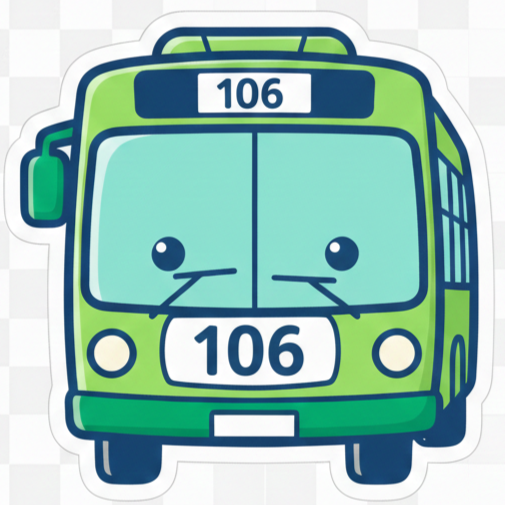
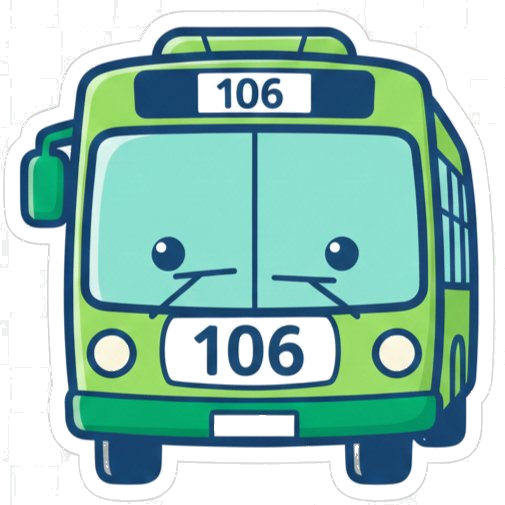
Improved interface

diff --git a/app.py b/app.py
@@ -15,10 +15,13 @@ TEXT_STYLE = {
 }
 
 home_icon = dict(iconUrl="/assets/home.png", iconSize=[60, 60], iconAnchor=[30, 60])
+malden_icon = dict(iconUrl="/assets/malden.png", iconSize=[60, 60], iconAnchor=[30, 60])
+wellington_icon = dict(iconUrl="/assets/wellington.png", iconSize=[60, 60], iconAnchor=[30, 60])
 
-# ... imports remain the same ...
-
-app = dash.Dash(__name__)
+app = dash.Dash(__name__, title="GoTime", meta_tags=[
+    {"name": "mobile-web-app-capable", "content": "yes"},
+    {"name": "application-name", "content": "GoTime"},
+])
 
 app.layout = html.Div([
     dcc.Interval(id="interval-component", interval=15 * 1000, n_intervals=0),
@@ -27,7 +30,7 @@ app.layout = html.Div([
     html.Div([
         html.Div(id="primary-option-container", children=[
             html.Div("LEAVE IN", style={**TEXT_STYLE, "fontSize": "25px", "color": "#666"}),
-            html.Div(id="primary-timer", style={**TEXT_STYLE, "fontSize": "130px", "lineHeight": "1.0"}),
+            html.Div(id="primary-timer", style={**TEXT_STYLE, "fontSize": "100px", "lineHeight": "1.0"}),
             html.Div(id="primary-desc", style={**TEXT_STYLE, "fontSize": "30px", "marginTop": "10px"}),
         ], style={"padding": "30px", "borderBottom": "4px solid #eee"}),
 
@@ -39,12 +42,16 @@ app.layout = html.Div([
         dl.Map([
             dl.TileLayer(url="https://{s}.basemaps.cartocdn.com/light_all/{z}/{x}/{y}{r}.png"),
             dl.LayerGroup(id="route-path-layer"),
-            dl.Marker(icon=home_icon),
+            dl.Marker(position=[42.415158, -71.067861], icon=home_icon),
+            dl.Marker(position=[42.426715, -71.074349], icon=malden_icon, zIndexOffset=-1000),
+            dl.Marker(position=[42.401907, -71.077096], icon=wellington_icon, zIndexOffset=-1000),
+
             dl.LayerGroup(id="bus-layer"),
         ],
             id="map",
             style={"width": "100%", "height": "100%"},  # Let CSS control the size
-            zoom=15, zoomControl=False, attributionControl=False,
+            center=[42.415158, -71.067861],
+            zoom=14, zoomControl=True, attributionControl=False,
         )
     ], className="map-panel")  # <--- CHANGED: Uses CSS class now
 
@@ -94,6 +101,15 @@ def refresh_ui(n):
     # Track which routes we've already drawn to avoid overlap mess
     drawn_routes = set()
 
+    # Gets top route icon
+    top_route_id = top.get("route_id")
+    if top_route_id:
+        top_icon_url = get_bus_icon(top_route_id)["iconUrl"]
+    elif top.get("route_type") == "Walking":
+        top_icon_url = "/assets/walk.png"
+    else:
+        top_icon_url = None  # truly unknown/empty
+
     # Process top 4 results
     # We use .get() to avoid the KeyError if a field is missing
     for i, opt in enumerate(results[:4]):
@@ -102,6 +118,7 @@ def refresh_ui(n):
             continue  # Skip if no route ID exists (like walking)
 
         # A. Sidebar Card
+        route_color = ROUTES_DETAILS.get(r_id, {}).get("color", "#ccc") if r_id else "#ccc"
         card = html.Div(
             [
                 html.Div(
@@ -123,7 +140,7 @@ def refresh_ui(n):
             ],
             style={
                 "padding": "20px",
-                "borderLeft": f'15px solid {opt.get("color", "#ccc")}',
+                "borderLeft": f'15px solid {route_color}',
                 "backgroundColor": "#f9f9f9" if i == 0 else "#fff",
                 "borderBottom": "1px solid #ddd",
             },
@@ -152,13 +169,18 @@ def refresh_ui(n):
                     position=[opt["lat"], opt["lon"]],
                     icon=get_bus_icon(r_id),
                     children=[dl.Tooltip(f"Route {r_id}")],
+                    zIndexOffset=1000,
                 )
             )
 
     return (
         f"{leave_min} MIN",
-        {**TEXT_STYLE, "fontSize": "130px", "color": timer_color},
-        top.get("desc", "Unknown").upper(),
+        {**TEXT_STYLE, "fontSize": "100px", "color": timer_color},
+        html.Div([
+            html.Img(src=top_icon_url, style={"height": "70px", "marginRight": "15px",
+                                              "verticalAlign": "middle"}) if top_icon_url else None,
+            html.Span(top.get("desc", "Unknown").upper()),
+        ], style={"display": "flex", "alignItems": "center"}),
         secondary_cards,
         bus_markers,
         path_layer,
@@ -166,4 +188,6 @@ def refresh_ui(n):
 
 
 if __name__ == "__main__":
-    app.run(debug=True, host='0.0.0.0', port=8050)
+    local = "127.0.0.1"
+    network = "0.0.0.0"
+    app.run(debug=False, host=network, port=8050)

diff --git a/src/commute_optimizer.py b/src/commute_optimizer.py
@@ -56,7 +56,8 @@ class CommuteOptimizer:
             ("Malden Center", self.WALK_TO_MALDEN_STATION, ol_malden),
             ("Wellington", self.WALK_TO_WELLINGTON_STATION, ol_wellington),
         ]:
-            if not trains: continue
+            if not trains:
+                continue
             for train in trains:
                 wait_time = self._get_minutes_until(train["time"])
                 if wait_time > (walk_time + self.SAFETY_BUFFER):
@@ -88,9 +89,16 @@ class CommuteOptimizer:
                 for bus in bus_preds:
                     curr_seq = bus.get("current_seq")
                     home_seq = self.HOME_SEQUENCES[route_id][target_key]
+                    vehicle_direction = bus.get("direction_id")
+                    expected_direction = data["dir"]
 
                     if curr_seq and home_seq:
-                        stops_away = home_seq - curr_seq
+                        if vehicle_direction == expected_direction:
+                            stops_away = home_seq - curr_seq
+                        else:
+                            current_map = self.master_stop_maps[route_id][vehicle_direction]
+                            stops_to_terminal = len(current_map) - curr_seq
+                            stops_away = stops_to_terminal + home_seq
                         if stops_away > 0:
                             status_str = f"{stops_away} stops away ({bus['location']})"
                         else:
@@ -112,8 +120,9 @@ class CommuteOptimizer:
                         if trains:
                             for train in trains:
                                 train_wait = self._get_minutes_until(train["time"])
-                                print(train_wait)
-                                if train_wait > (arrival_at_station + self.SAFETY_BUFFER):
+                                if train_wait > (
+                                    arrival_at_station + self.SAFETY_BUFFER
+                                ):
                                     best_train_wait = train_wait
                                     break
 
@@ -121,19 +130,23 @@ class CommuteOptimizer:
                             best_train_wait = arrival_at_station + 1
                             status_str += " (Est. Connection)"
 
-                        options.append({
-                            "desc": f"Bus {route_id} -> {target_name}",
-                            "leave_in": bus_wait - self.WALK_TO_BUS_STOPS - self.SAFETY_BUFFER,
-                            "arrival_on_train": best_train_wait,
-                            "status": status_str,
-                            "route_type": "Bus",
-                            "lat": bus.get('lat'),
-                            "lon": bus.get('lon'),
-                            "vehicle_id": bus.get('id'),
-                            "route_id": route_id,
-                            "bus_data": bus,
-                            "direction_id": bus.get('direction_id')
-                        })
+                        options.append(
+                            {
+                                "desc": f"Bus {route_id} -> {target_name}",
+                                "leave_in": bus_wait
+                                - self.WALK_TO_BUS_STOPS
+                                - self.SAFETY_BUFFER,
+                                "arrival_on_train": best_train_wait,
+                                "status": status_str,
+                                "route_type": "Bus",
+                                "lat": bus.get("lat"),
+                                "lon": bus.get("lon"),
+                                "vehicle_id": bus.get("id"),
+                                "route_id": route_id,
+                                "bus_data": bus,
+                                "direction_id": bus.get("direction_id"),
+                            }
+                        )
                         break
 
         options.sort(key=lambda x: x["arrival_on_train"])
@@ -172,12 +185,9 @@ def run_loop() -> None:
                     print(f"   STATUS:   {opt['status']}")
                     print(f"   On Orange Line in: {round(opt['arrival_on_train'])} min")
 
-            print(f"\n{'=' * 55}")
-            print(" Refreshing in 60 seconds... (Ctrl+C to stop)")
             time.sleep(60)
 
         except KeyboardInterrupt:
-            print("\nTracker stopped. safe travels!")
             break
         except Exception as e:
             print(f"\nAn error occurred: {e}")

diff --git a/src/mbta_fetcher.py b/src/mbta_fetcher.py
@@ -50,7 +50,7 @@ class MBTAFetcher:
         endpoint = f"{self.BASE_URL}/shapes"
         params = {
             "filter[route]": route_id,
-            "sort": "-length"  # Optional: tries to get the longest one first
+            "sort": "-length",  # Optional: tries to get the longest one first
         }
 
         try:
@@ -119,7 +119,9 @@ class MBTAFetcher:
             return []
 
     @staticmethod
-    def _parse_predictions(data: List[Dict], included_map: Dict, stop_map: Dict = None) -> List[Dict]:
+    def _parse_predictions(
+        data: List[Dict], included_map: Dict, stop_map: Dict = None
+    ) -> List[Dict]:
         clean_results = []
         for item in data:
             attrs = item.get("attributes", {})
@@ -131,12 +133,14 @@ class MBTAFetcher:
             direction_id = None
 
             if vehicle_rel:
-                veh = included_map.get(("vehicle", vehicle_rel['id']))
+                veh = included_map.get(("vehicle", vehicle_rel["id"]))
                 if veh:
                     v_attrs = veh.get("attributes", {})
                     lat = v_attrs.get("latitude")
                     lon = v_attrs.get("longitude")
-                    direction_id = v_attrs.get("direction_id")  # <--- NEW: Get the real direction (0 or 1)
+                    direction_id = v_attrs.get(
+                        "direction_id"
+                    )  # <--- NEW: Get the real direction (0 or 1)
 
                     status = v_attrs.get("current_status", "").replace("_", " ").title()
                     current_seq = v_attrs.get("current_stop_sequence")
@@ -147,13 +151,15 @@ class MBTAFetcher:
 
                     location_desc = f"{status} {stop_name}"
 
-            clean_results.append({
-                "time": attrs.get("arrival_time") or attrs.get("departure_time"),
-                "location": location_desc,
-                "current_seq": current_seq,
-                "lat": lat,
-                "lon": lon,
-                "direction_id": direction_id,
-                "id": vehicle_rel['id'] if vehicle_rel else "Unknown"
-            })
+            clean_results.append(
+                {
+                    "time": attrs.get("arrival_time") or attrs.get("departure_time"),
+                    "location": location_desc,
+                    "current_seq": current_seq,
+                    "lat": lat,
+                    "lon": lon,
+                    "direction_id": direction_id,
+                    "id": vehicle_rel["id"] if vehicle_rel else "Unknown",
+                }
+            )
         return clean_results
